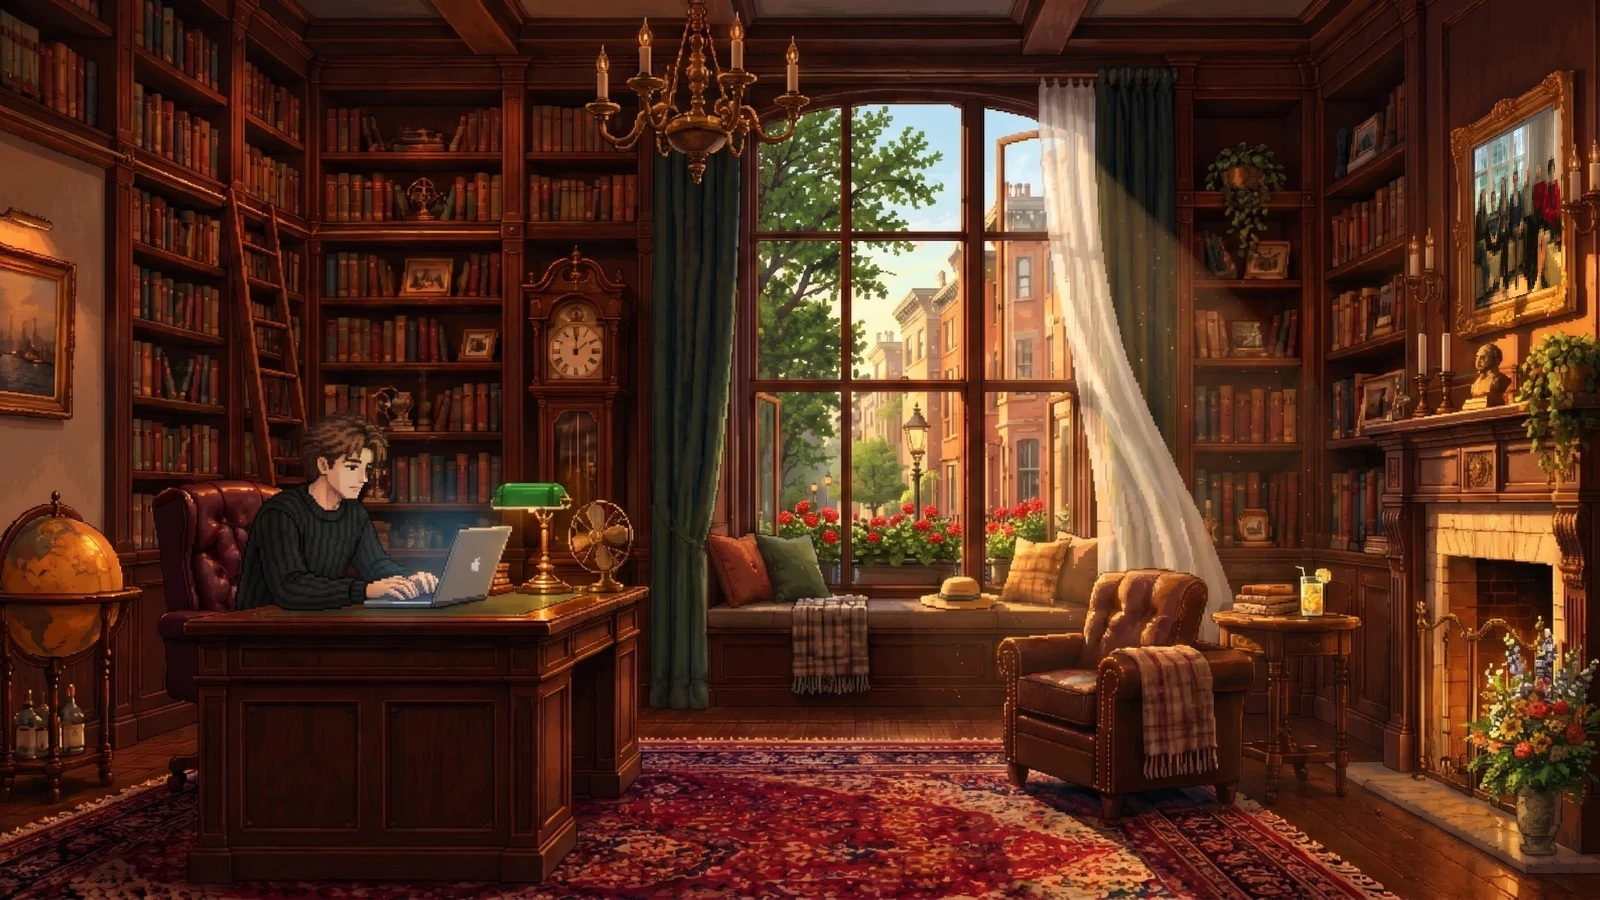
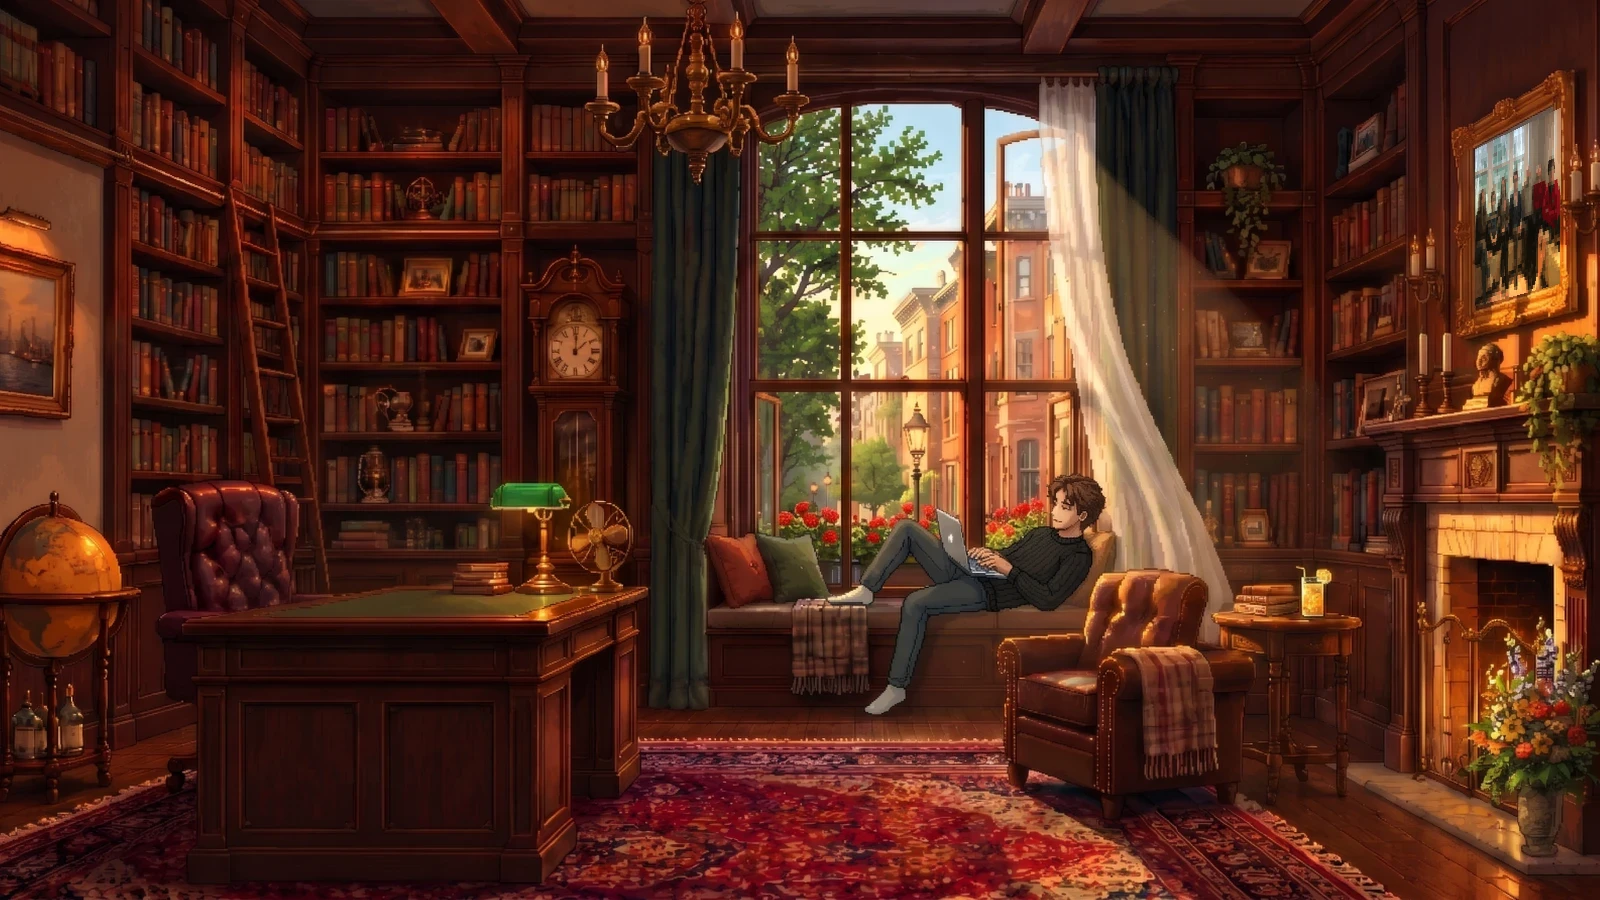
Halloween lightning with the clown teleporting inside; summer on the window seat

diff --git a/src/main.js b/src/main.js
@@ -144,6 +144,7 @@ function setScene(id) {
   $('picker-icon').textContent = meta.icon;
   document.body.dataset.scene = id;
   document.body.dataset.tint = profile.tint ?? '';
+  $('flash').style.opacity = 0;
   for (const l of lightEls) l.el.classList.toggle('lit', profile.lights.includes(l.group));
   for (const [el, h] of hotspotEls) el.hidden = !!h.scenes && !h.scenes.includes(id);
   resetParticles();
@@ -569,6 +570,73 @@ function drawPage(t) {
   actx.restore();
 }
 
+// Halloween: every minute lightning strikes; the clown is suddenly inside, front and center, staring.
+// Three seconds later it strikes again and he is back outside by the lamppost.
+const clownInside = { ...sprites['clown-inside'], img: sprite(sprites['clown-inside'].src) };
+const STORM = { first: 15, every: 60, stay: 3 };
+const STRIKE = 0.7; // seconds a strike's flash and bolt last
+let bolt = null;
+
+// flash brightness over a strike: a hard flash, a dip, a second flicker, then fading
+function flashLevel(k) {
+  if (k < 0 || k > STRIKE) return 0;
+  if (k < 0.06) return 1;
+  if (k < 0.12) return 0.25;
+  if (k < 0.2) return 0.85;
+  return 0.85 * (1 - (k - 0.2) / (STRIKE - 0.2));
+}
+
+function makeBolt() {
+  const pts = [[rand(800, 1040), 100]];
+  while (pts[pts.length - 1][1] < 330) {
+    const [x, y] = pts[pts.length - 1];
+    pts.push([x + rand(-22, 22), y + rand(14, 30)]);
+  }
+  const fork = pts.slice(0, Math.floor(rand(3, pts.length - 2)) + 1);
+  const [fx, fy] = fork[fork.length - 1];
+  const branch = [[fx, fy]];
+  for (let i = 0; i < 4; i++) branch.push([branch[i][0] + rand(8, 20) * (Math.random() < 0.5 ? -1 : 1), branch[i][1] + rand(10, 22)]);
+  return [pts, branch];
+}
+
+function drawLightning(t) {
+  // time into the current storm cycle; strikes at 0 (clown comes in) and at `stay` (he leaves)
+  const c = t < STORM.first ? -1 : (t - STORM.first) % STORM.every;
+  const inside = c >= 0 && c < STORM.stay;
+  const k = c < 0 ? -1 : c < STORM.stay ? c : c - STORM.stay;
+  const level = flashLevel(k);
+  $('flash').style.opacity = (level * 0.75).toFixed(3);
+
+  if (inside && ready(clownInside.img)) {
+    const [x1, y1, x2, y2] = clownInside.rect;
+    blit(clownInside.img, x1, y1, x2 - x1, y2 - y1);
+  }
+
+  if (level > 0) {
+    if (!bolt || k < 0.02) bolt = makeBolt();
+    actx.save();
+    actx.beginPath();
+    for (const [x1, y1, x2, y2] of PANES) actx.rect(x1 * scale, y1 * scale, (x2 - x1) * scale, (y2 - y1) * scale);
+    actx.clip();
+    actx.globalCompositeOperation = 'lighter';
+    actx.lineJoin = 'round';
+    for (const [w, color] of [[7, 'rgba(160, 180, 255, 0.35)'], [2.5, 'rgba(240, 245, 255, 0.95)']]) {
+      actx.strokeStyle = color;
+      actx.lineWidth = w * scale;
+      for (const line of bolt) {
+        actx.beginPath();
+        line.forEach(([x, y], i) => (i ? actx.lineTo(x * scale, y * scale) : actx.moveTo(x * scale, y * scale)));
+        actx.globalAlpha = Math.min(1, level * 1.2);
+        actx.stroke();
+      }
+    }
+    actx.restore();
+    actx.globalAlpha = 1;
+  } else {
+    bolt = null;
+  }
+}
+
 function updateAnim(t, now) {
   actx.clearRect(0, 0, animCanvas.width, animCanvas.height);
   const img = layers[scene];
@@ -582,6 +650,7 @@ function updateAnim(t, now) {
   if (profile.santa) drawSanta(t);
   if (profile.turkey) drawTurkey(now);
   if (profile.pilgrim) drawPage(t);
+  if (profile.lightning) drawLightning(t);
 }
 
 // ---------- hotspots + popup ----------

diff --git a/src/scene.js b/src/scene.js
@@ -29,8 +29,8 @@ export const PROFILES = {
   fall: { lights: [...EVENING, 'fire'], weather: 'leaves', embers: true },
   winter: { lights: [...EVENING, 'fire'], weather: 'snow', embers: true, tree: true },
   spring: { lights: ['lamp'], weather: 'petals', tint: 'spring' },
-  summer: { lights: ['lamp'], weather: 'fireflies', motes: true, curtain: true, tint: 'summer' },
-  halloween: { lights: ['lamp', 'streetHalloween', 'fire', 'lantern', 'screen'], weather: 'darkLeaves', embers: true },
+  summer: { lights: ['lamp'], weather: 'fireflies', motes: true, curtain: true, curtainStop: 470, tint: 'summer' }, // stops above David's head
+  halloween: { lights: ['lamp', 'streetHalloween', 'fire', 'lantern', 'screen'], weather: 'darkLeaves', embers: true, lightning: true },
   birthday: { lights: [...EVENING, 'fire'], weather: 'snow', embers: true, confetti: true },
   july4: { lights: [...EVENING, 'fire'], weather: 'fireworks', embers: true, curtain: true, curtainStop: 415 }, // stops above Uncle Sam's hat
   christmas: { lights: [...EVENING, 'fire'], weather: 'snow', embers: true, tree: true, santa: true },
@@ -89,7 +89,7 @@ const DAVID_HANDS = {
   fall: [[355, 566, 398, 601], [398, 566, 434, 601]],
   winter: [[358, 566, 405, 601], [405, 566, 441, 601]],
   spring: [[355, 566, 400, 601], [400, 566, 441, 601]],
-  summer: [[363, 568, 405, 602], [405, 568, 437, 602]],
+  summer: [[962, 546, 984, 574], [984, 544, 1006, 574]], // lying on the window seat
   halloween: [[350, 566, 380, 602], [380, 566, 410, 602]],
   birthday: [[356, 566, 398, 600], [398, 566, 432, 600]],
   july4: [[360, 568, 402, 600], [402, 568, 445, 600]],
@@ -122,9 +122,10 @@ export const GOLD = [[1296, 696, 1424, 726], [912, 832, 1408, 872]];
 export const HOTSPOTS = [
   { id: 'bookshelf', label: 'Bookshelf', rect: [322, 85, 505, 400] },
   { id: 'heroes', label: 'GOATs', rect: [1458, 335, 1512, 408] },
-  { id: 'me', label: 'David', rect: [240, 405, 370, 560] },
+  { id: 'me', label: 'David', rect: [240, 405, 370, 560], scenes: SCENES.map((s) => s.id).filter((s) => s !== 'summer') },
   { id: 'globe', label: 'Places', rect: [0, 495, 140, 680] },
   { id: 'window', label: 'Window: change the season', rect: [756, 100, 1075, 585] },
+  { id: 'me', label: 'David', rect: [860, 470, 1110, 620], scenes: ['summer'] }, // on the window seat, over the window
   { id: 'clock', label: 'Grandfather clock', rect: [528, 250, 624, 555] },
   { id: 'family', label: 'Family portrait', rect: [1462, 90, 1578, 322] },
   // little photo frames on the right-hand shelves (the one behind the tree's star is hidden in winter)

diff --git a/src/style.css b/src/style.css
@@ -338,3 +338,14 @@ a { color: var(--accent); }
 .photo-nav[hidden] { display: none; }
 .photo-nav { display: flex; align-items: center; justify-content: center; gap: 16px; margin-top: 12px; }
 .photo-nav .hero-count { margin: 0; }
+
+/* Halloween lightning: a cold flash that lights up the room, strongest from the window */
+.flash {
+  position: absolute;
+  inset: 0;
+  pointer-events: none;
+  opacity: 0;
+  mix-blend-mode: screen;
+  background:
+    radial-gradient(ellipse at 57% 30%, rgba(225, 235, 255, 0.95), rgba(170, 190, 255, 0.55) 45%, rgba(120, 140, 220, 0.35) 100%);
+}

diff --git a/index.html b/index.html
@@ -19,6 +19,7 @@
         <div class="lights" id="lights"></div>
         <canvas class="fx" id="fx"></canvas>
         <div class="vignette"></div>
+        <div class="flash" id="flash"></div>
         <div class="hotspots" id="hotspots"></div>
       </div>
       <div class="picker" id="picker">
